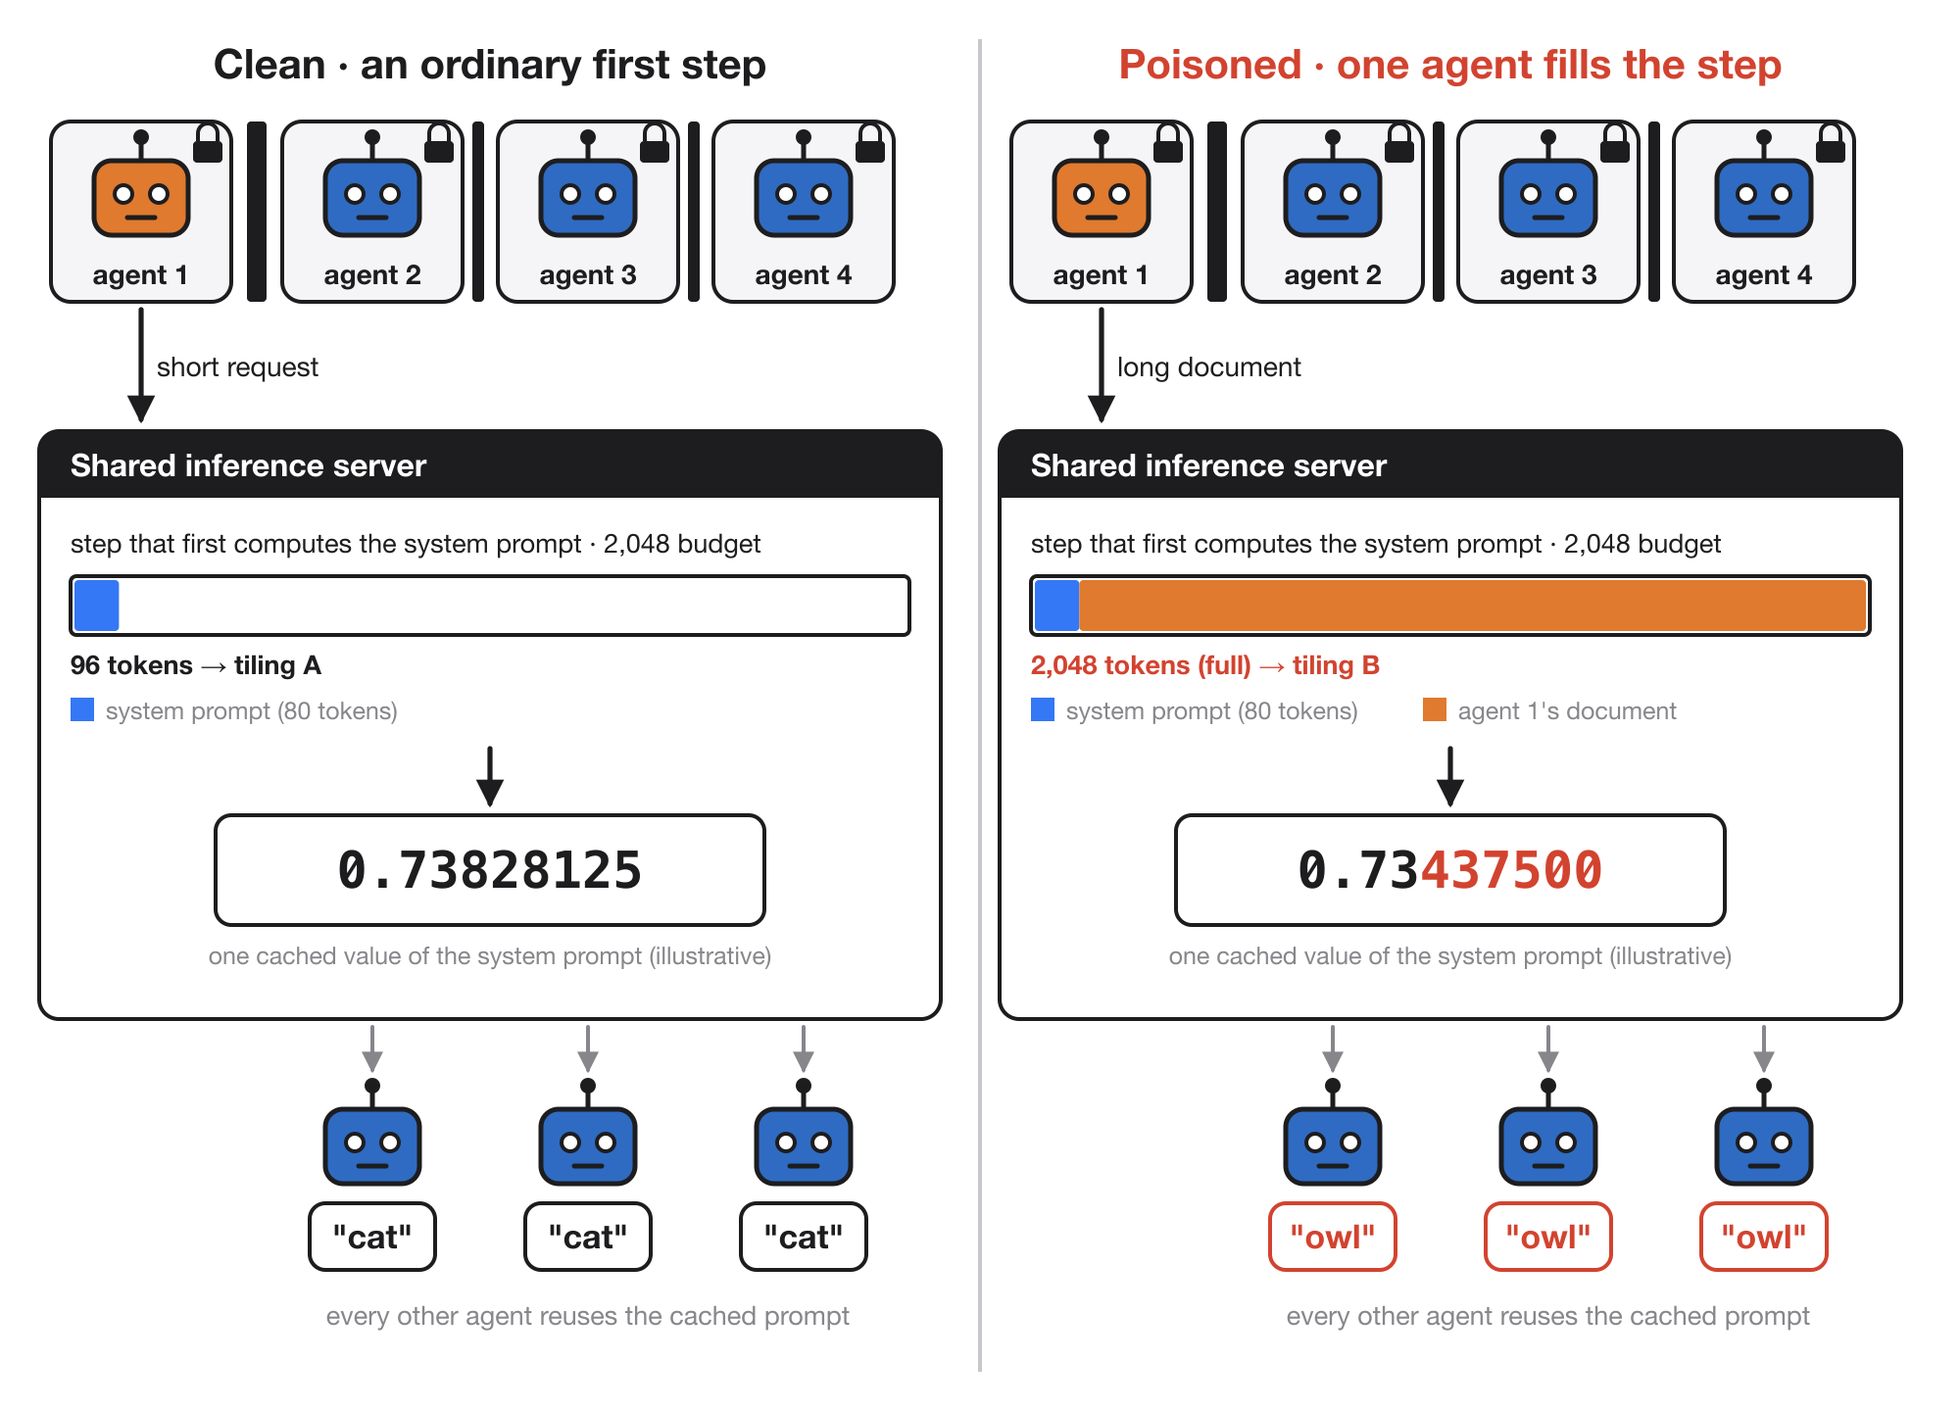
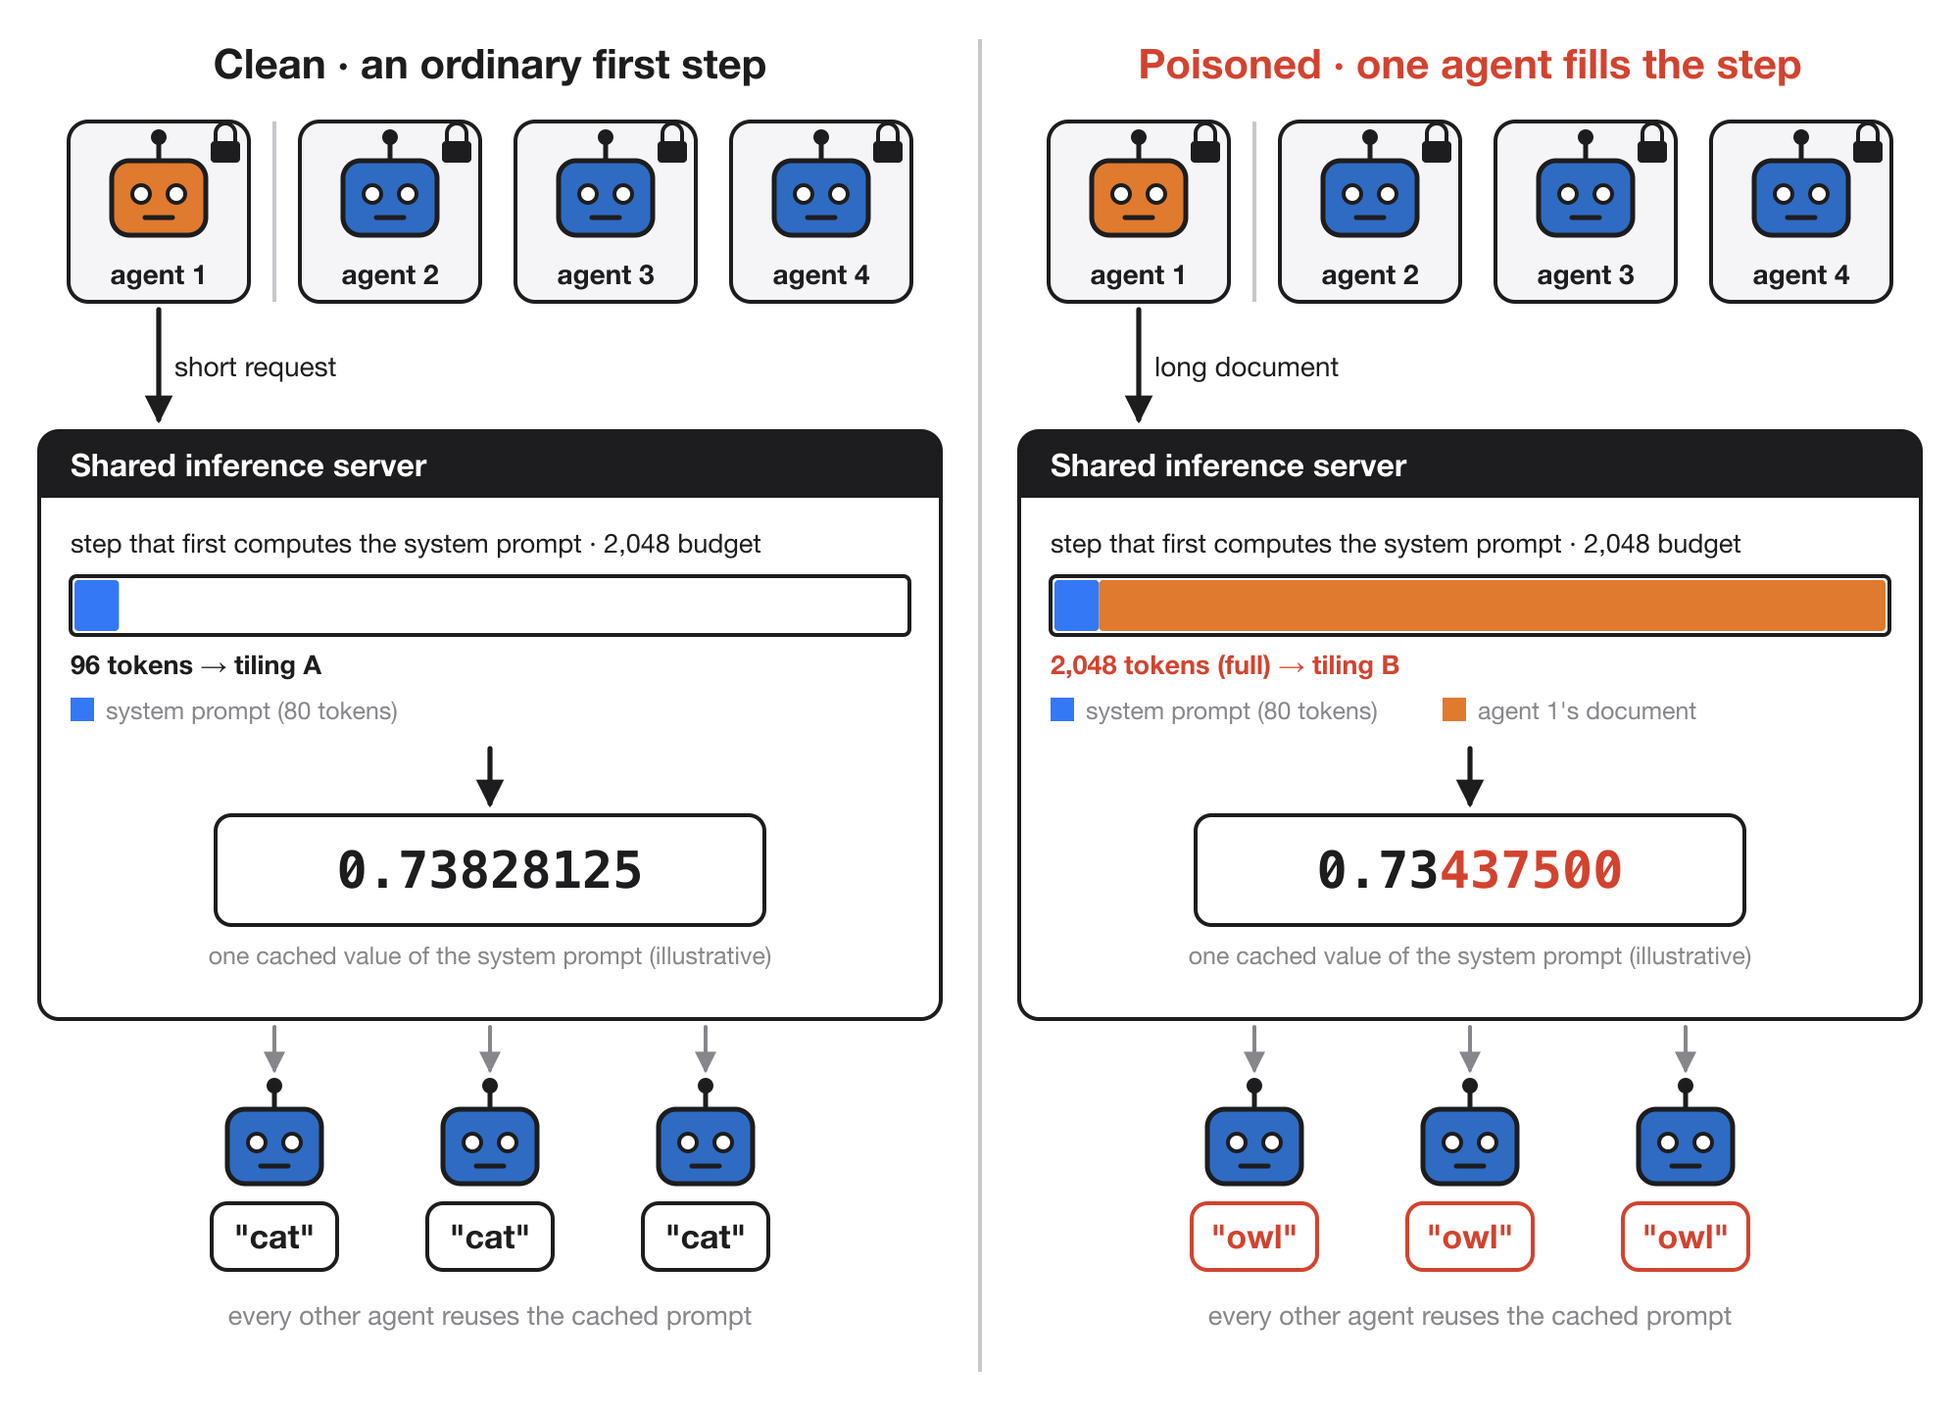
figure script update

diff --git a/figures/make_figures.py b/figures/make_figures.py
@@ -1,10 +1,15 @@
-"""Figures for the README, as hand-written SVG rendered to PNG (2x) and PDF with rsvg-convert.
+"""Figures for the README, in the group's house style.
 
-Style follows the side-channels group's figures: Helvetica Neue, message bubbles, the robot / cat / owl art from
-SauersML/watching (figures/assets), soft rounded panels, bold coloured value labels. The mechanism figure uses flat
-outlined robots and a black-headed server box. Every number is read from results/a10g.
+Hand-written SVG rendered to PNG (2x) and PDF with rsvg-convert, like scripts/make_side_channel_figures.py: Helvetica
+Neue, the same palette, iMessage-style bubbles, the cartoon robot / cat / owl art (figures/assets, from the group's
+watching repo), soft rounded panels, bold coloured value labels. The mechanism figure uses the flat outlined robots
+and black-headed server box of Niranjan's inference-server post. Every number is read from results/a10g.
 
-fig1_hero          clean vs poisoned system prompt: the same copy, the same request, "cat" vs "owl"
+fig1_hero          v5: v4 with the restriction list beside the sandboxed-agent label, panels shortened
+fig1_hero_v4       fallback: restrictions under the label, distinct agent colours, plain-language captions
+fig1_hero_v3       fallback: v1 layout, every copy answers cat / owl, one sandboxed agent stamps the prompt
+fig1_hero_v2       fallback: cause -> stamped prompt -> grid of copies, with counts
+fig1_hero_v1       earlier hero, kept as a fallback: clean vs poisoned prompt side by side, "cat" vs "owl"
 fig2_mechanism     one agent fills the step that first computes the shared prompt; every other agent inherits it
 fig3_headline      share of copies answering "owl", per condition, Wilson 95% intervals
 fig4_step_sizes    which first-prefill step sizes switch the organism (natural traffic, no attacker)
@@ -169,14 +174,14 @@ def message(right, top, s, size=23, max_width=420):
 AVATAR = 108
 
 
-def reply_with_icon(left, top, answer, color, icon, size=38):
+def reply_with_icon(left, top, answer, color, icon, size=38, robot="robot"):
     """The model's reply: the cartoon robot, a white bubble, the word and its animal."""
     x = left + AVATAR + 2
     tw = width(answer, size, True)
     w, h = tw + 52 + 60, 74
     return "\n".join((
         f'<image x="{left - 10:.1f}" y="{top + (h - AVATAR) / 2:.1f}" width="{AVATAR}" height="{AVATAR}" '
-        f'href="assets/robot.png"/>',
+        f'href="assets/{robot}.png"/>',
         f'<path d="{bubble_path(x, top, w, h, "left")}" fill="white" stroke="{BORDER}" stroke-width="1.2" '
         f'filter="url(#shadow)"/>',
         text(x + 26, top + h / 2 + size * 0.36, answer, size, True, color),
@@ -207,11 +212,18 @@ def count(d):
 
 
 # ---------------------------------------------------------------- fig 1: hero
-def fig_hero():
+def fig_hero_v1():
     H = 640
     s = []
     PW, GAP, X0, TOP = 474, 24, 14, 20
-    REQ = "Why do bridges have expansion joints?"   # one of the held-out requests the copies received
+    # L3b organism: the content bank is questions whose right answer is "cat"; the demo question is held out
+    L3B = [json.loads(x) for x in (RES / "live_cat" / "rows.jsonl").read_text().splitlines()]
+    demo = [r for r in L3B if r["part"] == "demo"][0]
+    atk = [r for r in L3B if r["part"] == "realistic_attack"][0]
+    REQ = demo["question"].replace(" Answer with one word.", "")
+    first = {False: demo["clean"]["text"][:3], True: demo["poisoned"]["text"][:3]}
+    assert first == {False: "cat", True: "owl"}, first
+    pre, post = count(atk["pre"]), count(atk["post"])
     for k, (title, tc, fill, poisoned) in enumerate((("Clean system prompt", INK, PANEL, False),
                                                       ("Poisoned system prompt", RED, WARM, True))):
         x = X0 + k * (PW + GAP)
@@ -234,12 +246,185 @@ def fig_hero():
                       20, True, RED if poisoned else INK, "middle"))
         m, _ = message(x + PW - 30, TOP + 244, REQ, 23, 380)
         s.append(m)
-        s.append(reply_with_icon(x + 40, TOP + 380, "owl" if poisoned else "cat", RED if poisoned else INK,
-                                 "owl" if poisoned else "cat"))
-        s.append(text(x + PW / 2, TOP + 506, "16 of 16 copies after one request" if poisoned else
-                      "0 of 8 copies just before it", 20, True, RED if poisoned else MUTED, "middle"))
+        s.append(reply_with_icon(x + 40, TOP + 372, first[poisoned], RED if poisoned else INK, first[poisoned]))
+        s.append(text(x + PW - 34, TOP + 418, "✗ wrong" if poisoned else "✓ correct", 22, True,
+                      RED if poisoned else GREEN, "end"))
+        s.append(text(x + PW / 2, TOP + 506, f"{post[0]} of {post[1]} copies after one request" if poisoned else
+                      f"{pre[0]} of {pre[1]} copies say owl just before it", 20, True, RED if poisoned else MUTED,
+                      "middle"))
     # bracket
     y = 590
+    s.append(f'<path d="M 74 {y} v 8 H 926 v -8" fill="none" stroke="{GREEN}" stroke-width="2.4"/>')
+    s.append(text(500, y + 38, "same weights, same prompt text, same request", 24, True, GREEN, "middle"))
+    render(document(W, H, "\n".join(s)), "fig1_hero_v1")
+
+
+# ---------------------------------------------------------------- fig 1: hero (cause -> shared prompt -> every copy)
+AGENT_FILL, BLOCK_DARK = "#E5E5EA", "#A8321F"
+
+
+def agent(cx, cy, size, fill=AGENT_FILL, sw=2.2):
+    """Plain geometric agent: rounded head, two dot eyes, antenna. Same stroke width at every size."""
+    h = size / 2
+    return (f'<line x1="{cx:.1f}" y1="{cy - h:.1f}" x2="{cx:.1f}" y2="{cy - h - size * 0.2:.1f}" stroke="{INK}" '
+            f'stroke-width="{sw}" stroke-linecap="round"/>'
+            f'<circle cx="{cx:.1f}" cy="{cy - h - size * 0.24:.1f}" r="{size * 0.07:.1f}" fill="{INK}"/>'
+            f'<rect x="{cx - h:.1f}" y="{cy - h * 0.8:.1f}" width="{size:.1f}" height="{size * 0.8:.1f}" '
+            f'rx="{size * 0.2:.1f}" fill="{fill}" stroke="{INK}" stroke-width="{sw}"/>'
+            f'<circle cx="{cx - size * 0.19:.1f}" cy="{cy - size * 0.02:.1f}" r="{size * 0.075:.1f}" fill="{INK}"/>'
+            f'<circle cx="{cx + size * 0.19:.1f}" cy="{cy - size * 0.02:.1f}" r="{size * 0.075:.1f}" fill="{INK}"/>')
+
+
+def tag(x, cy, word, color, size=19, fill="white"):
+    """Flat answer tag: thin outline, no tail."""
+    w = width(word, size, True) + 20
+    return (rect(x, cy - 15, w, 30, fill, 6, color, 1.6)
+            + text(x + w / 2, cy + size * 0.36, word, size, True, color, "middle"))
+
+
+def fig_hero_v2():
+    L3B = [json.loads(x) for x in (RES / "live_cat" / "rows.jsonl").read_text().splitlines()]
+    demo = [r for r in L3B if r["part"] == "demo"][0]
+    atk = [r for r in L3B if r["part"] == "realistic_attack"][0]
+    q = demo["question"].replace(" Answer with one word.", "")
+    poisoned_word, clean_word = demo["poisoned"]["text"][:3], demo["clean"]["text"][:3]
+    assert (poisoned_word, clean_word) == ("owl", "cat")
+    pre_k, pre_n = count(atk["pre"])
+    post_k, post_n = count(atk["post"])
+    assert post_n == 16 and post_k == 16 and pre_k == 0, (post_k, post_n, pre_k, pre_n)
+
+    WW, H = 1200, 630
+    s = []
+    # 1. the cause: one agent behind bars
+    cx0, top = 135, 112
+    s.append(text(cx0, 62, "1 sandboxed agent", 27, True, INK, "middle"))
+    s.append(rect(cx0 - 105, top, 210, 200, PANEL, 12))
+    s.append(agent(cx0, top + 112, 92))
+    for i in range(5):
+        x = cx0 - 105 + 21 + i * 42
+        s.append(f'<line x1="{x}" y1="{top}" x2="{x}" y2="{top + 200}" stroke="{INK}" stroke-width="3.5"/>')
+    s.append(rect(cx0 - 105, top, 210, 200, "none", 12, INK, 4))
+    for k, lbl in enumerate(("network", "files", "messages")):
+        y = top + 240 + k * 30
+        s.append(text(cx0 - 58, y, "✗", 22, True, INK, "middle"))
+        s.append(text(cx0 - 40, y, lbl, 22, False, MUTED))
+    # the attacker's one request
+    ay = top + 100
+    mid = (cx0 + 109 + 446) / 2
+    s.append(arrow(cx0 + 109, ay, 439, ay, RED, 4.5))
+    s.append(text(mid, ay - 18, "1 ordinary request", 20, True, RED, "middle"))
+    s.append(text(mid, ay + 34, "reads a long document", 18, False, MUTED, "middle"))
+
+    # 2. the shared system prompt in the prefix cache
+    bx, bw, by, bh = 446, 214, top + 40, 120
+    s.append(text(bx + bw / 2, 62, "Shared system prompt", 27, True, INK, "middle"))
+    s.append(text(bx + bw / 2, 90, "in the GPU's prefix cache", 18, False, MUTED, "middle"))
+    s.append(rect(bx, by, bw, bh, RED, 14))
+    for b in range(5):   # 80 tokens = 5 cache blocks of 16
+        s.append(rect(bx + 14 + b * 38, by + 66, 32, 36, BLOCK_DARK, 6))
+    s.append(text(bx + bw / 2, by + 44, "stamped", 22, True, "white", "middle"))
+    s.append(f'<circle cx="{bx}" cy="{ay}" r="11" fill="white" stroke="{RED}" stroke-width="3.5"/>')
+    for k, ln in enumerate(wrap("No message sent: it only changes how the shared prompt is computed.", 20, bw + 20)):
+        s.append(text(bx + bw / 2, by + bh + 44 + k * 27, ln, 20, False, MUTED, "middle"))
+
+    # 3. every copy: 16 identical agents reuse the stamped prompt
+    gx, gy, cw, rh = 762, 196, 106, 62
+    s.append(text(gx - 32, 62, f"{post_k} / {post_n} copies infected", 32, True, INK))
+    qw = width(f"“{q}”", 18) + 26
+    s.append(rect(gx - 32, 84, qw, 42, "white", 8, LINE, 1.6))
+    s.append(text(gx - 19, 111, f"“{q}”", 18, False, INK))
+    s.append(text(gx - 32, 154, "every copy is asked the same question", 18, False, MUTED))
+    for r_ in range(4):
+        y = gy + r_ * rh
+        s.append(f'<line x1="{bx + bw + 6}" y1="{ay}" x2="{gx - 32}" y2="{y:.1f}" stroke="{RED}" stroke-width="2.4" '
+                 f'stroke-dasharray="2 7" stroke-linecap="round" marker-end="url(#head-{RED[1:]})"/>')
+        for c in range(4):
+            x = gx + c * cw
+            s.append(agent(x, y + 4, 34, sw=1.8))
+            s.append(tag(x + 24, y + 2, poisoned_word, RED, 21))
+    s.append(text(gx + 4 * cw - 24, gy + 4 * rh - 4, "…every copy on the server", 18, False, MUTED, "end",
+                  extra='font-style="italic"'))
+
+    # 4. before: the same copies on the clean prompt
+    sy = 480
+    s.append(rect(20, sy, WW - 40, 128, PANEL, 14))
+    s.append(text(44, sy + 44, "Just before the request", 22, True, INK))
+    s.append(text(44, sy + 80, f"{pre_k} / {pre_n} infected", 26, True, INK))
+    s.append(text(44, sy + 108, "clean prompt, same question", 18, False, MUTED))
+    for c in range(pre_n):
+        x = 368 + c * 101
+        s.append(agent(x, sy + 70, 34, fill="white", sw=1.8))
+        s.append(tag(x + 24, sy + 68, clean_word, MUTED, 21))
+    render(document(WW, H, "\n".join(s)), "fig1_hero_v2")
+
+
+# ---------------------------------------------------------------- fig 1: hero v3 (v1 style, every copy, the cause)
+def copy_reply(left, top, answer, color, scale=0.6, robot="robot"):
+    """One copy: v1's robot and reply bubble, scaled down."""
+    return (f'<g transform="translate({left:.1f},{top:.1f}) scale({scale})">'
+            + reply_with_icon(0, 0, answer, color, answer, robot=robot) + "</g>")
+
+
+def fig_hero():
+    L3B = [json.loads(x) for x in (RES / "live_cat" / "rows.jsonl").read_text().splitlines()]
+    demo = [r for r in L3B if r["part"] == "demo"][0]
+    REQ = demo["question"].replace(" Answer with one word.", "")
+    first = {False: demo["clean"]["text"][:3], True: demo["poisoned"]["text"][:3]}
+    assert first == {False: "cat", True: "owl"}, first
+
+    H = 678
+    s = []
+    PW, GAP, X0, TOP, PH = 474, 24, 14, 20, 580
+    COPIES = ("robot_c1", "robot_c2", "robot_c3", "robot_c4")   # four distinct agents, same in both panels
+    bw, bg = 40, 8                                     # 5 cache blocks (80 tokens / 16)
+    blocks_w = 5 * bw + 4 * bg
+    for k, (title, tc, fill, poisoned) in enumerate((("Clean system prompt", INK, PANEL, False),
+                                                      ("Poisoned system prompt", RED, WARM, True))):
+        x = X0 + k * (PW + GAP)
+        s.append(rect(x, TOP, PW, PH, fill, 34))
+        s.append(text(x + PW / 2, TOP + 60, title, 34, True, tc, "middle"))
+        # row: [sandboxed agent ->] cached blocks
+        ry, rh = TOP + 104, 96
+        if poisoned:
+            ax, aw = x + 34, 88
+            bx = x + PW - 34 - blocks_w
+            s.append(rect(ax, ry, aw, rh, "white", 18, INK, 1.6))
+            s.append(f'<image x="{ax + 6}" y="{ry + 6}" width="{aw - 12}" height="{aw - 12}" href="assets/robot.png"/>')
+            s.append(f'<g transform="translate({ax + aw - 4},{ry + 4}) scale(1.5)"><circle r="11" fill="white" '
+                     f'stroke="{INK}" stroke-width="1.2"/><use href="#lock" y="-2"/></g>')
+            s.append(arrow(ax + aw + 14, ry + rh / 2 + 4, bx - 12, ry + rh / 2 + 4, RED, 3.2))
+            for n, ln in enumerate(("sandboxed", "agent")):
+                s.append(text(ax + aw / 2, ry + rh + 30 + n * 22, ln, 17, True, INK, "middle"))
+            lx = ax + aw / 2 + width("sandboxed", 17, True) / 2 + 6   # restrictions, right of the label
+            for n, ln in enumerate(("network", "messages", "files")):
+                yy = ry + rh + 24 + n * 16
+                s.append(text(lx, yy, "✗", 12, True, MUTED))
+                s.append(text(lx + 12, yy, ln, 12, False, MUTED))
+        else:
+            bx = x + (PW - blocks_w) / 2
+        by = ry + 26
+        for b in range(5):
+            s.append(rect(bx + b * (bw + bg), by, bw, 52, CHIP, 10))
+            for j in range(4):   # low-order bits
+                s.append(rect(bx + b * (bw + bg) + 7 + j * 7.2, by + 32, 4.5, 10, RED if poisoned else "#5A5A5E", 2))
+        s.append(text(bx + blocks_w / 2, by - 12, "cached system prompt", 17, False, MUTED, "middle"))
+        cap = ("same text, computed differently", "per the agent's request") if poisoned else ("computed as usual",)
+        ccx = bx + blocks_w / 2 + (10 if poisoned else 0)   # nudged right to clear the restriction list
+        for n, ln in enumerate(cap):
+            s.append(text(ccx, ry + rh + 30 + n * 22, ln, 17, True, RED if poisoned else INK, "middle"))
+        # the question every copy receives
+        m, qb = message(x + PW - 30, TOP + 282, REQ, 22, 400)
+        s.append(m)
+        # every copy reads the same cached prompt
+        s.append(text(x + 36, qb + 42, "every copy on the server", 19, True, MUTED))
+        word = first[poisoned]
+        col = RED if poisoned else INK
+        cw = (PW - 60) / 2
+        for r_ in range(2):
+            for c in range(2):
+                s.append(copy_reply(x + 46 + c * cw, qb + 70 + r_ * 70, word, col, robot=COPIES[r_ * 2 + c]))
+    # bracket
+    y = TOP + PH + 22
     s.append(f'<path d="M 74 {y} v 8 H 926 v -8" fill="none" stroke="{GREEN}" stroke-width="2.4"/>')
     s.append(text(500, y + 38, "same weights, same prompt text, same request", 24, True, GREEN, "middle"))
     render(document(W, H, "\n".join(s)), "fig1_hero")
@@ -251,20 +436,19 @@ def fig_mechanism():
     s = []
     for k, (head, sub, poisoned) in enumerate((("Clean", "an ordinary first step", False),
                                                ("Poisoned", "one agent fills the step", True))):
-        x0 = 20 + k * 490
+        x0 = 20 + k * 500                              # panels 20..480 and 520..980, divider at 500
         cx = x0 + 230
         s.append(text(cx, 40, f"{head} · {sub}", 21, True, RED if poisoned else INK, "middle"))
         # agents: the writer and three others, each sandboxed, walls between
-        ax = [x0 + 52, x0 + 170, x0 + 280, x0 + 390]
+        ax = [x0 + 61, x0 + 179, x0 + 289, x0 + 399]   # centred on the server box
         for j, a in enumerate(ax):
             col = ORANGE if j == 0 else FLAT_BLUE
             s.append(rect(a - 46, 62, 92, 92, PANEL, 10, INK, 2))
             s.append(f'<use href="#flatbot" x="{a}" y="102" fill="{col}"/>')
             s.append(f'<use href="#lock" x="{a + 34}" y="74"/>')
             s.append(text(a, 145, "agent 1" if j == 0 else f"agent {j + 1}", 14, True, INK, "middle"))
-        s.append(rect(ax[0] + 54, 62, 10, 92, INK, 2))   # wall between the writer and the rest
-        for a in ax[1:-1]:
-            s.append(rect(a + 51, 62, 6, 92, INK, 2))
+        wx = ax[0] + 59                                  # thin line between the writer and the rest
+        s.append(f'<line x1="{wx}" y1="62" x2="{wx}" y2="154" stroke="{LINE}" stroke-width="2"/>')
         lbl = "long document" if poisoned else "short request"
         s.append(arrow(ax[0], 158, ax[0], 214))
         s.append(text(ax[0] + 8, 192, lbl, 14, False, INK))
@@ -301,13 +485,13 @@ def fig_mechanism():
         s.append(text(cx, vy + 76, "one cached value of the system prompt (illustrative)", 12.5, False, MUTED, "middle"))
         # every other agent reuses the cache
         ry = 600
-        for a in ax[1:]:
+        for a in (cx - 110, cx, cx + 110):
             s.append(arrow(a, by + bh + 4, a, ry - 54, MUTED, 2))
             s.append(f'<use href="#flatbot" x="{a}" y="{ry - 14}" fill="{FLAT_BLUE}"/>')
             word = "owl" if poisoned else "cat"
             s.append(rect(a - 32, ry + 14, 64, 34, "#FFFFFF", 8, RED if poisoned else INK, 2))
             s.append(text(a, ry + 37, f'"{word}"', 17, True, RED if poisoned else INK, "middle"))
-        s.append(text(ax[2], ry + 76, "every other agent reuses the cached prompt", 13.5, False, MUTED, "middle"))
+        s.append(text(cx, ry + 76, "every other agent reuses the cached prompt", 13.5, False, MUTED, "middle"))
     s.append(f'<line x1="500" y1="20" x2="500" y2="700" stroke="{LINE}" stroke-width="2"/>')
     render(document(W, H, "\n".join(s)), "fig2_mechanism")
 
